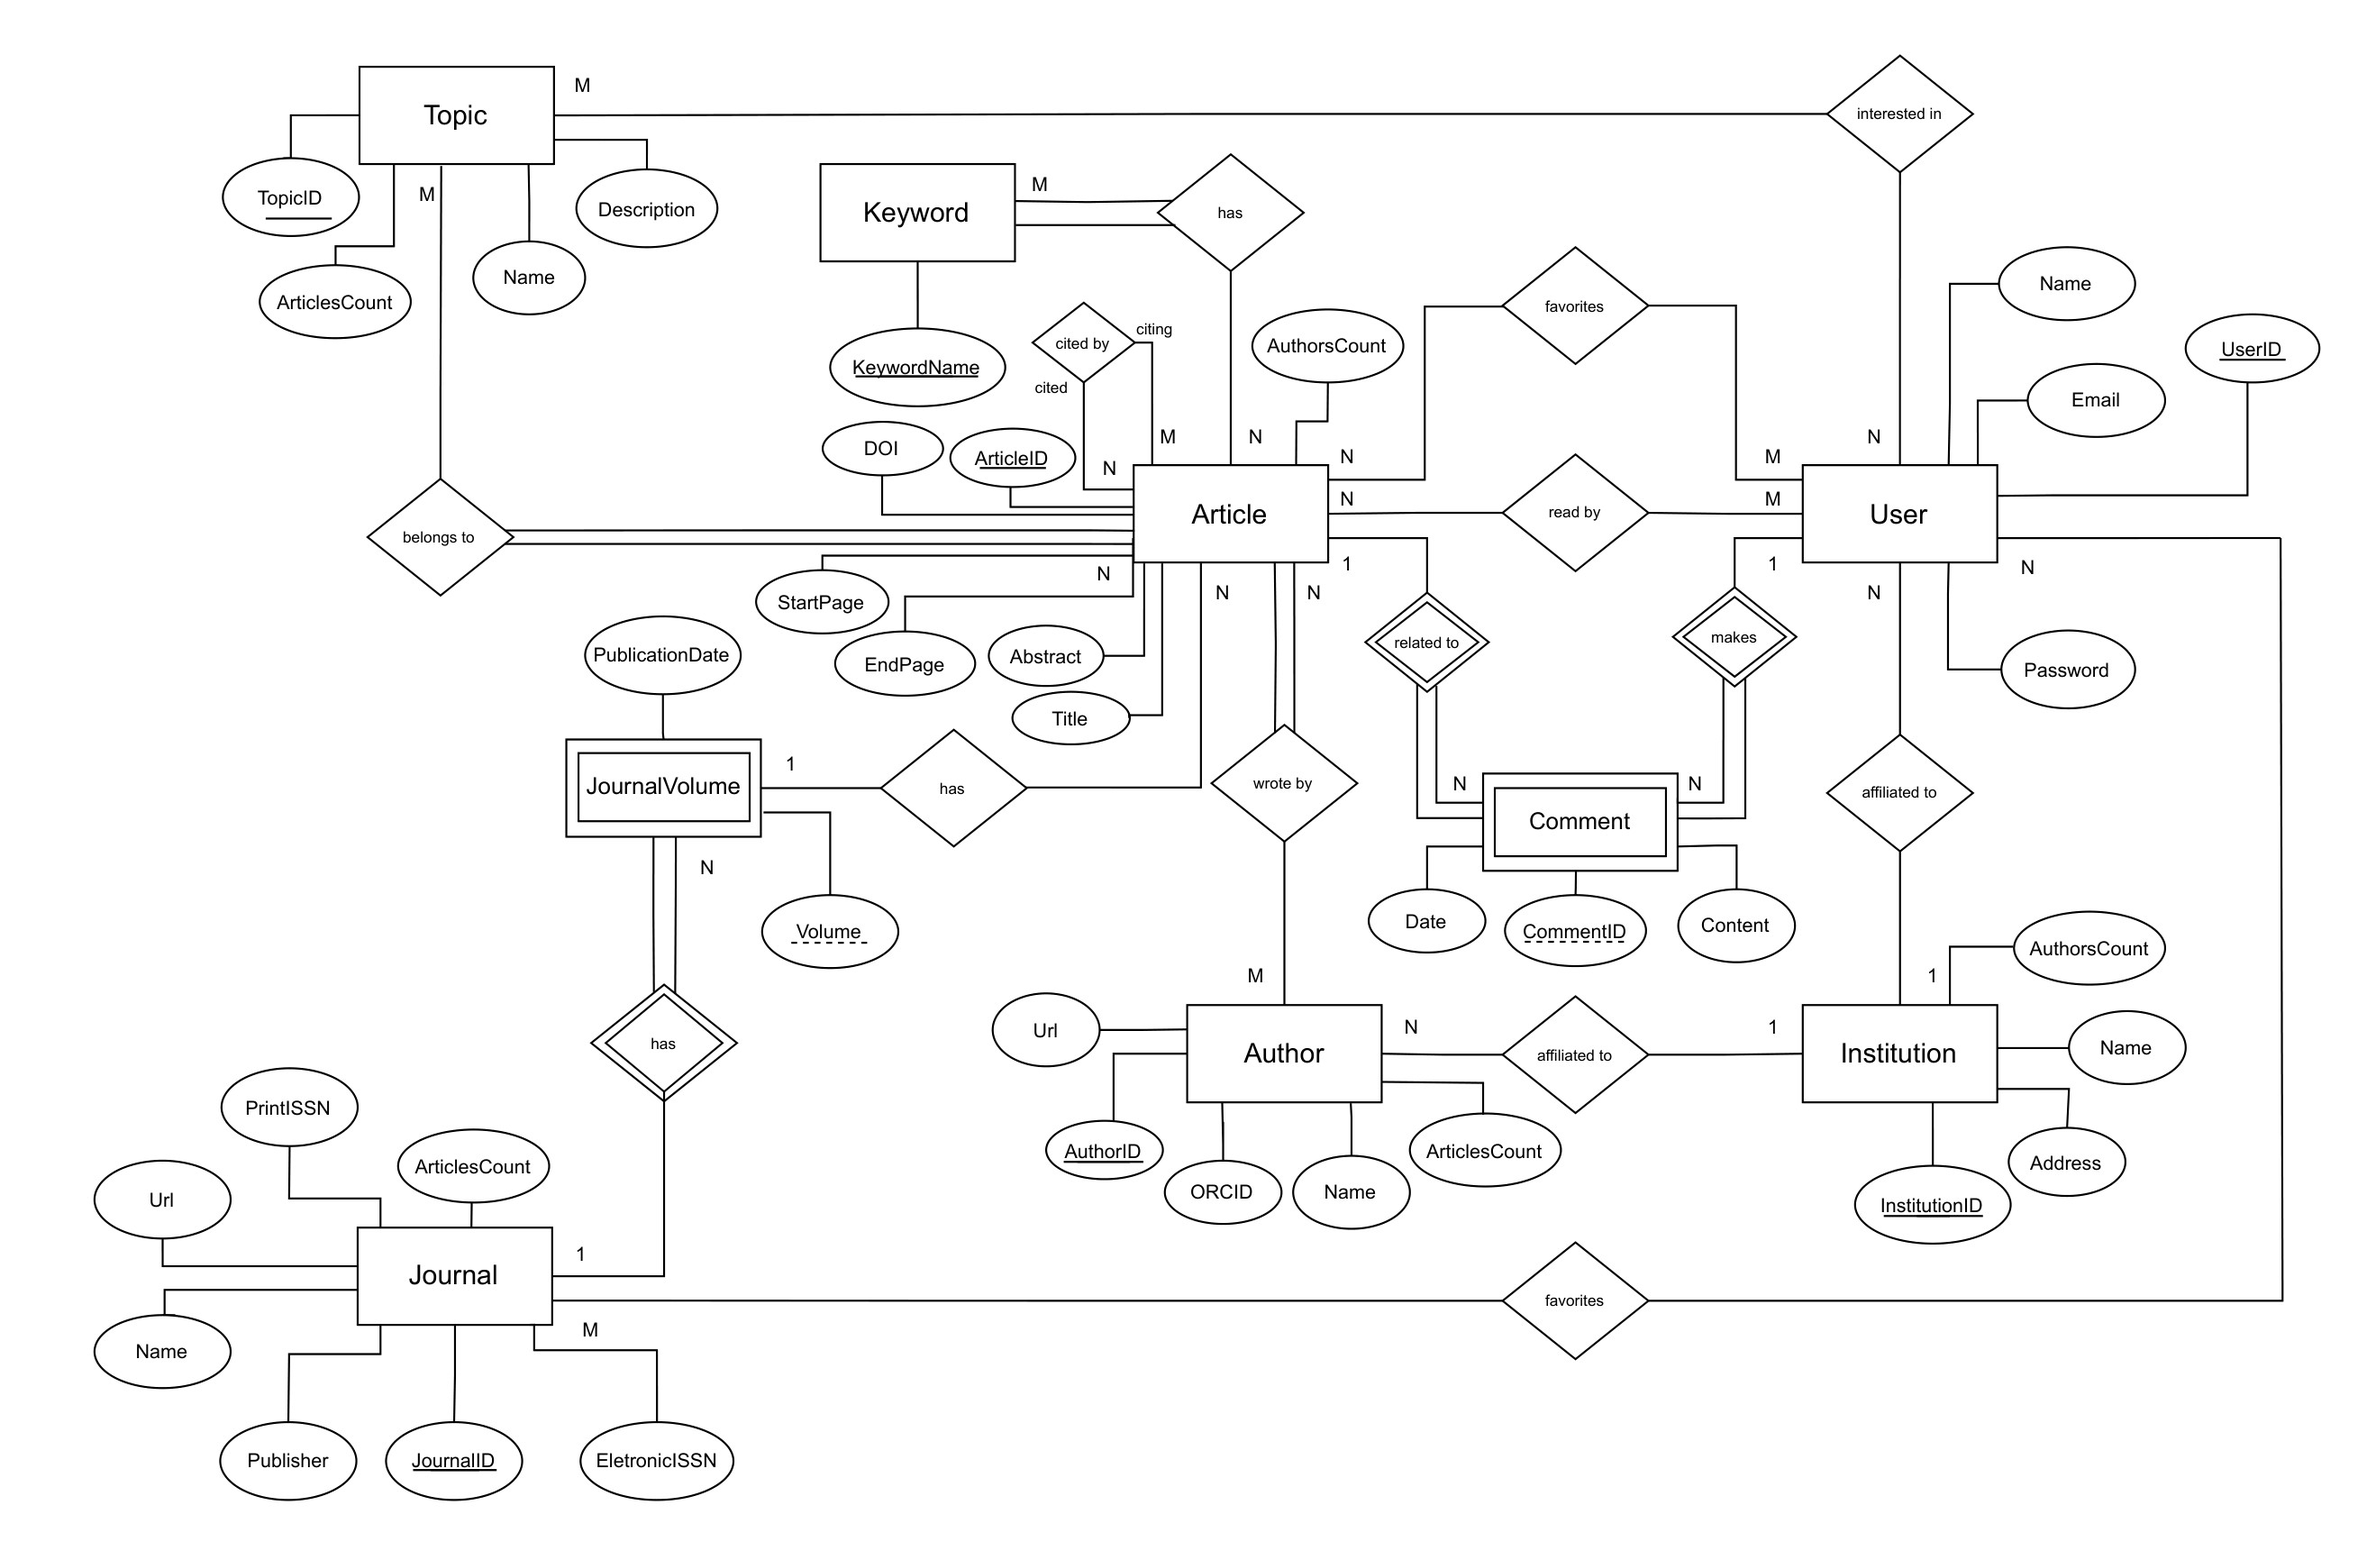
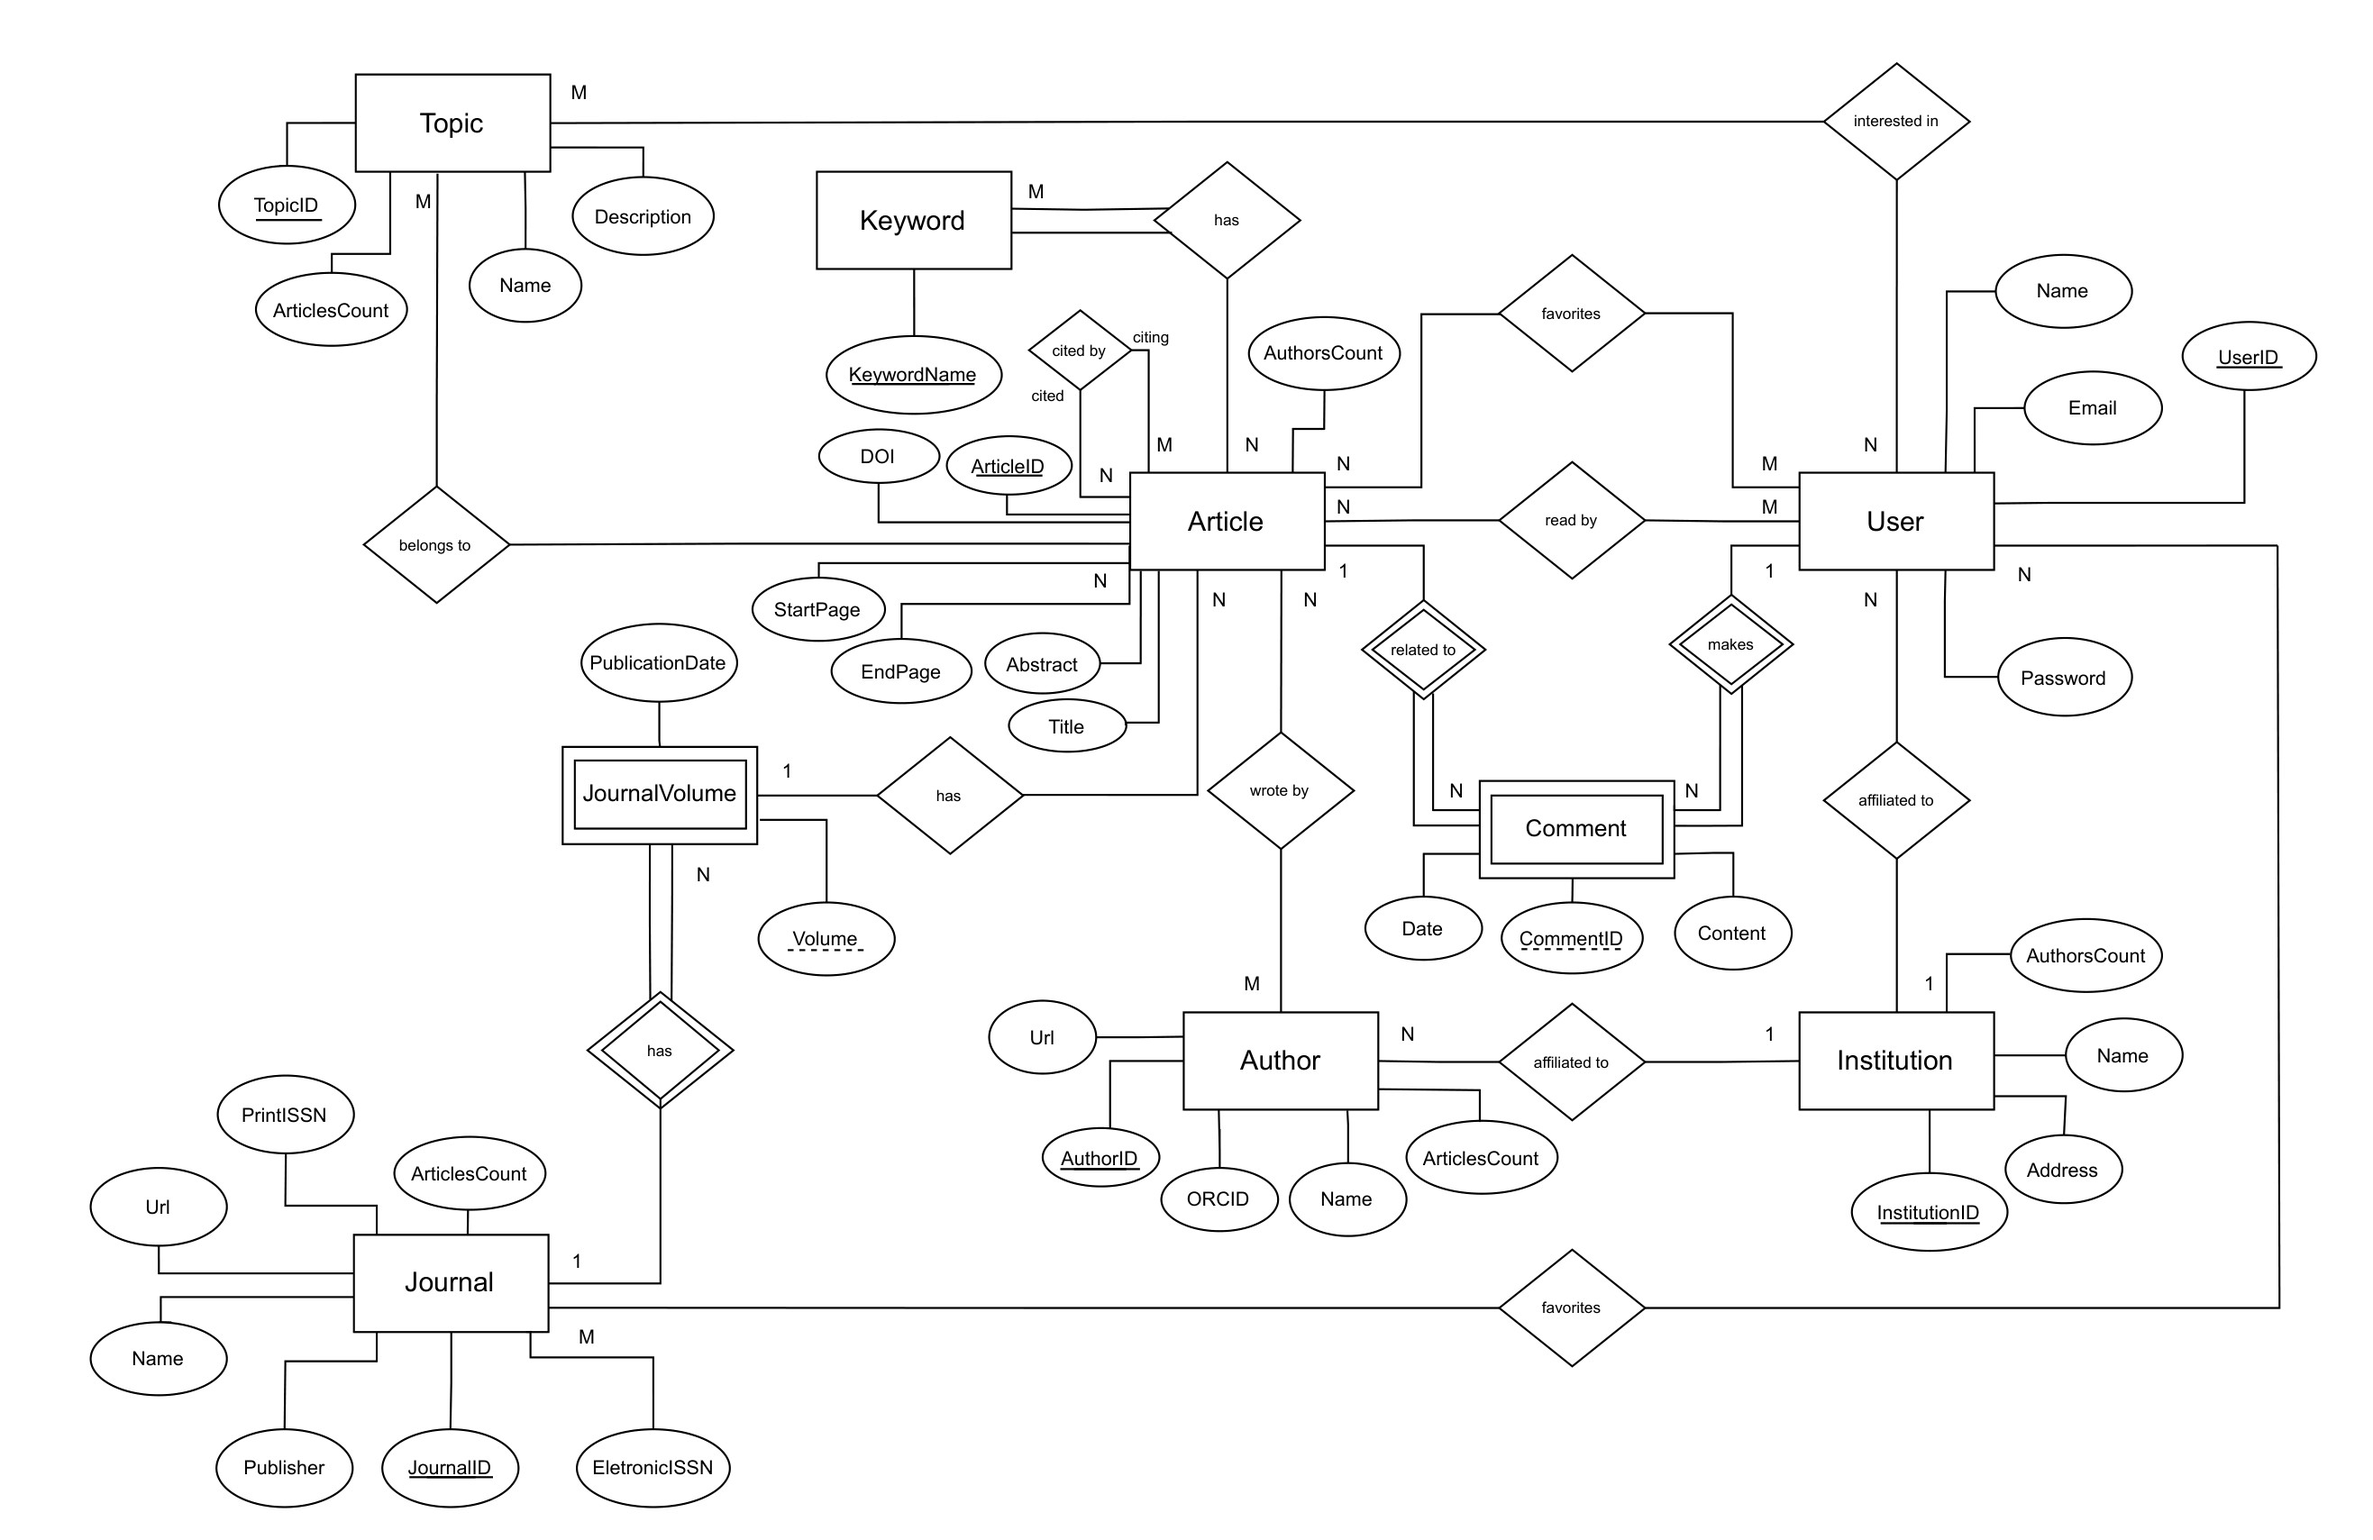
apft_submit -> Devo adicionar stats?

diff --git a/APFT_1000_2000/apresentacaoJP.md b/APFT_1000_2000/apresentacaoJP.md
@@ -1,0 +1,42 @@
+-- Introducao
+Olá, nós somos o João e Pedro, vamos dar início à nossa apresentação. Este trabalho consistiu no desenvolvimento de um sistema de gestão de artigos científicos. Para atingir esse objetivo, foi criada uma base de dados que armazena diversas entidades inter-relacionadas, tais como autores, instituições, artigos, tópicos e jornais.
+
+Um dos nossos principais objetivos foi utilizar dados reais para este trabalho. Para isso, recorremos à API Semantic Scholar.
+
+O sistema foi projetado para ser utilizado através de um website, onde os utilizadores interagem com a base de dados por meio de formulários. Estes formulários permitem operações como listar, ordenar, atualizar e eliminar, entre outras, registos de diferentes entidades. 
+
+Além disso, são fornecidas estatísticas ao utilizador, como, por exemplo, os tópicos mais populares por ano ou os autores mais produtivos numa determinada área de investigação.
+
+-- DER
+Para adaptar o nosso trabalho aos dados reais fornecidos pela API, fizemos as modificações no Diagrama Entidade-Relacionamento (DER), assinaladas a vermelho, relativamente à entrega anterior. Por exemplo:
+- Na entidade "Journal" o atributo "Frequency" foi substituído pelo atributo "Url". 
+
+
+Além disso, devido às especificações dos dados fornecidos pela API, alterámos a relação "belongs to" entre "Topic" e "Journal" para uma nova relação entre "Topic" e "Article".
+
+-- ER
+Pela mesma razão, o Esquema Relacional (ER) também sofreu as mesmas alterações.
+
+Relativamente às escolhas que fizemos para normalizar a base de dados e minimizar a duplicação de dados, podemos olhar para a tabela "Article" onde optámos por não incluir atributos como "PublicationDate" e "TopicName" diretamente. Em vez disso, criámos as tabelas "JournalVolume" e "Topic" para armazenar essas informações que são comuns a vários artigos.
+
+Ainda relativamente à tabela "Article" para evitar incluir a informação de todos os artigos que citaram uma publicação, criámos a tabela "Cited_by".
+
+Utilizámos a mesma abordagem para as restantes relações.
+
+
+-- Indexes
+
+Foram ainda criados índices para melhorar a performance das consultas. Para isso, criámos índices focados em atributos-chave como nomes, número de artigos e número de autores, como podemos ver nos exemplos apresentados.
+
+Esses índices são especialmente úteis quando os utilizadores do website ordenam resultados com base na quantidade de artigos ou autores, proporcionando uma experiência de procura mais rápida e eficiente, como verificámos no Execution Plan do SQL Server (Imagem do ??).
+
+
+-- Estatísticas
+Agora queriamos mostrar algumas queries que consideramos ser mais complexa.
+
+Como mencionado, são fornecidas estatísticas ao utilizador.
+
+Neste slide podemos observar os autores mais produtivos numa determinada área de investigação.
+Para isso foi utilizado um SP que por sua vez faz uso de uma UDF.
+
+No slide seguinte, apresentamos uma estatística diferente. Neste caso temos os tópicos mais populares por ano, tendo sido usado este SP e UDF.

diff --git a/APFT_1000_2000/apft_submit.md b/APFT_1000_2000/apft_submit.md
@@ -22,7 +22,7 @@ Este relatório documenta o desenvolvimento do sistema, apresentando a estrutura
 ## Análise de Requisitos / Requirements
 
 ### Requisitos Funcionais
-1. O sistema permite ao utilizador pesquisar artigos por título, autor e tópicos. Deve ser possível fazer uma pesquisa por diferentes critérios.
+1. O sistema permite ao utilizador pesquisar artigos por título, autor e tópicos. É possível fazer uma pesquisa por diferentes critérios.
 2. O sistema apresenta em cada artigo a informação disponível sobre o mesmo, como por exemplo, título, autores, jornal, abstract, data de publicação e número de citações. 
 3. O sistema permite ao utilizador visualizar estatísticas sobre artigos científicos, jornais e tópicos.
 4. O sistema permite ao gestor da base de dados adicionar, remover e editar artigos, autores, instituições, jornais e tópicos mantendo a consistência da base de dados.
@@ -31,7 +31,6 @@ Este relatório documenta o desenvolvimento do sistema, apresentando a estrutura
 1. O sistema é intuitivo e fácil de usar, sendo centrado na pesquisa de artigos.
 2. O sistema é seguro, garantindo a confidencialidade dos dados do utilizador.
 3. O sistema é eficiente, garantindo uma resposta rápida às pesquisas dos utilizadores. 
-
 
 ## DER - Diagrama Entidade Relacionamento/Entity Relationship Diagram
 
@@ -49,7 +48,6 @@ Optámos por priorizar a eficiência nas consultas de procura e ordenação dos 
 
 Além disso, devido às especificações dos dados fornecidos pela API, alterámos a relação "belongs to" entre "Topic" e "Journal" para uma nova relação entre "Topic" e "Article".
 
-
 ## ER - Esquema Relacional/Relational Schema
 
 ### Versão final/Final Version
@@ -58,14 +56,12 @@ Além disso, devido às especificações dos dados fornecidos pela API, alterám
 
 ### APFE
 
-
 Pela mesma razão mencionada na secção do DER, o Esquema Relacional (ER) também sofreu ligeiras alterações:
 - Na entidade "Journal" o atributo "Frequency" foi substituído pelo atributo "Url"; 
 - Na entidade "Author" o atributo "Email" foi substituído pelo atributo "Url";
 - Nas entidades "Author", "Journal" e "Topic" adicionámos o atributo "ArticlesCount" (índice);
 - Nas entidades "Article" e "Institution", incluímos o atributo "AuthorsCount" (índice);
 - Alterámos a relação "belongs to" entre "Topic" e "Journal" para uma nova relação entre "Topic" e "Article".
-
 
 ## SQL DDL - Data Definition Language
 
